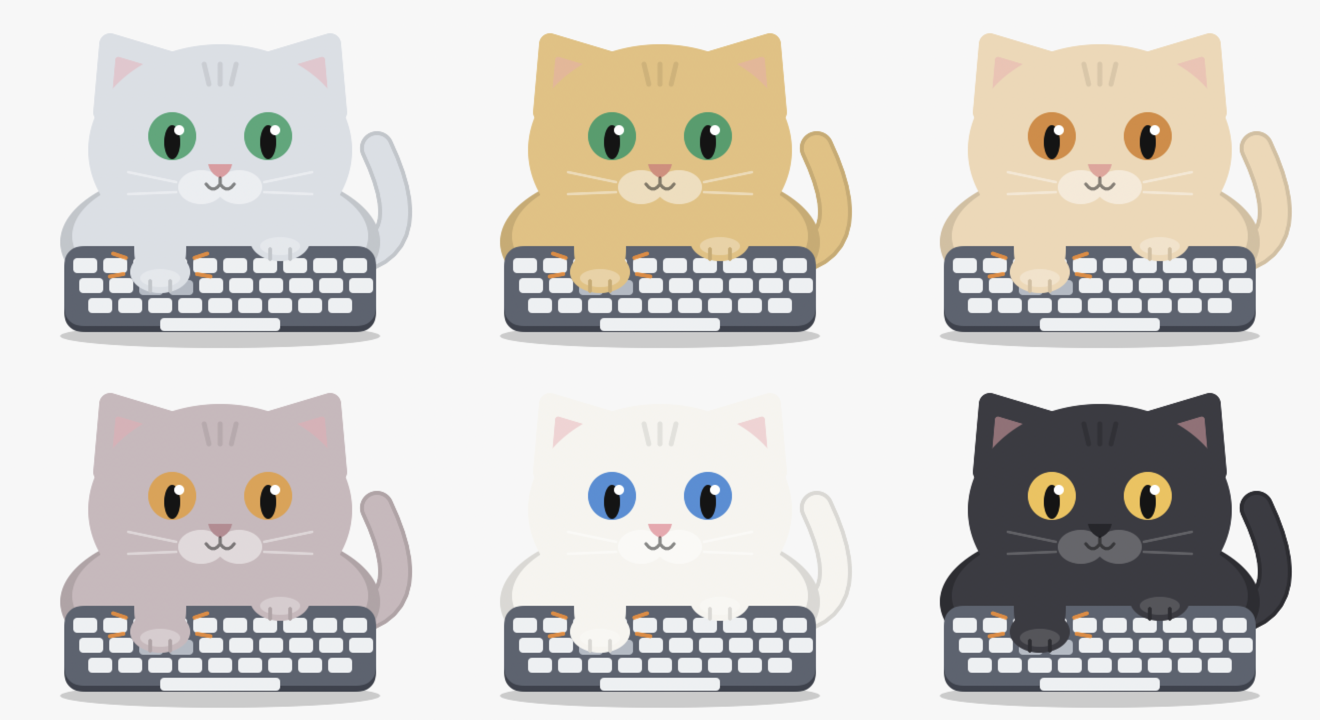
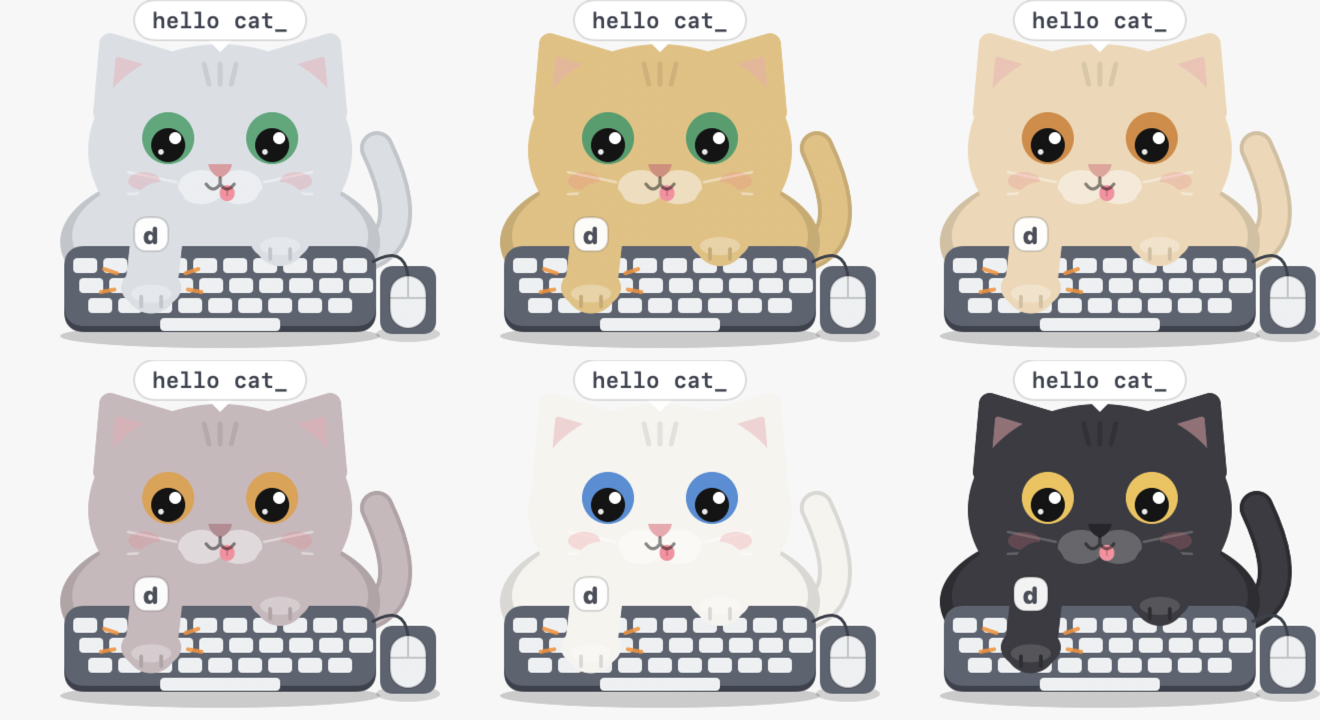
蠢萌化 + 旁边加小鼠标
- 大圆豆豆眼、双高光、小舌尖、常驻淡腮红；发呆时慢慢歪头，偶尔对眼
- 打字太快变 > < 眼并冒汗珠；专心打字时舌头歪着伸出来；睡觉吹鼻涕泡
- 键盘右边加小鼠标：用鼠标时右爪搭上去，跟随光标在屏幕上的位置移动，点击时有冲击线

diff --git a/Sources/TypingCat/CatView.swift b/Sources/TypingCat/CatView.swift
@@ -39,6 +39,7 @@ private struct CatPainter {
         bodyShape(&ctx, breathe: breathe)
         head(&ctx, dy: headDY)
         keyboard(&ctx)
+        miniMouse(&ctx)
         paw(&ctx, left: true, key: model.leftKey)
         paw(&ctx, left: false, key: model.rightKey)
         effects(&ctx)
@@ -143,9 +144,9 @@ private struct CatPainter {
     func head(_ ctx: inout GraphicsContext, dy: Double) {
         var c = ctx
         c.translateBy(x: 0, y: dy)
-        if model.isPetted {
-            // 被 rua 时脑袋左右蹭
-            let a = sin(t * 5) * 0.05
+        if model.isPetted || mood == .idle {
+            // 被 rua 时脑袋左右蹭；发呆时慢慢歪头
+            let a = model.isPetted ? sin(t * 5) * 0.05 : sin(t * 0.8) * 0.06
             c.translateBy(x: 110, y: 120)
             c.rotate(by: .radians(a))
             c.translateBy(x: -110, y: -120)
@@ -182,6 +183,18 @@ private struct CatPainter {
         nose.addQuadCurve(to: CGPoint(x: 104, y: 82), control: CGPoint(x: 105, y: 87))
         c.fill(nose, with: .color(th.nose))
 
+        // 小舌头：平时露一点舌尖，专心打字时歪着伸出来
+        if !sleeping {
+            let typing = mood == .typing || mood == .excited
+            let tw = typing ? 7.5 : 6.0, tl = typing ? 8.0 : 4.5
+            let tx = typing ? 113.5 : 110.0
+            let tongue = CGRect(x: tx - tw / 2, y: 92.5, width: tw, height: tl)
+            c.fill(Path(roundedRect: tongue, cornerRadius: tw / 2), with: .color(Color(red: 1, green: 0.55, blue: 0.62)))
+            var mid = Path()
+            mid.move(to: CGPoint(x: tx, y: 94)); mid.addLine(to: CGPoint(x: tx, y: 92.5 + tl - 2.5))
+            c.stroke(mid, with: .color(Color(red: 0.85, green: 0.35, blue: 0.45).opacity(0.6)), lineWidth: 1)
+        }
+
         // 嘴巴 "ω"
         let ink = Color.black.opacity(0.45)
         var m = Path()
@@ -200,12 +213,32 @@ private struct CatPainter {
         }
         c.stroke(w, with: .color(th.light.opacity(0.9)), style: StrokeStyle(lineWidth: 1.3, lineCap: .round))
 
-        // 兴奋或开心时脸红
-        if mood == .excited || happy {
-            for x in [66.0, 138.0] {
-                c.fill(Path(ellipseIn: CGRect(x: x, y: 86, width: 16, height: 9)),
-                       with: .color(Color(red: 1, green: 0.45, blue: 0.5).opacity(0.45)))
-            }
+        // 腮红：平时淡淡的，兴奋或开心时更红
+        let blush = mood == .excited || happy ? 0.5 : 0.22
+        for x in [64.0, 140.0] {
+            c.fill(Path(ellipseIn: CGRect(x: x, y: 86, width: 16, height: 9)),
+                   with: .color(Color(red: 1, green: 0.45, blue: 0.5).opacity(blush)))
+        }
+
+        // 打字太快：头上冒汗珠
+        if mood == .excited {
+            let drop = CGPoint(x: 160, y: 40 + (t * 1.5).truncatingRemainder(dividingBy: 1) * 6)
+            var d = Path()
+            d.move(to: CGPoint(x: drop.x, y: drop.y - 8))
+            d.addQuadCurve(to: CGPoint(x: drop.x, y: drop.y + 4), control: CGPoint(x: drop.x + 8, y: drop.y + 2))
+            d.addQuadCurve(to: CGPoint(x: drop.x, y: drop.y - 8), control: CGPoint(x: drop.x - 8, y: drop.y + 2))
+            c.fill(d, with: .color(Color(red: 0.55, green: 0.78, blue: 0.98)))
+            c.fill(Path(ellipseIn: CGRect(x: drop.x - 2.5, y: drop.y - 2, width: 2.2, height: 3)), with: .color(.white.opacity(0.8)))
+        }
+
+        // 睡觉：鼻涕泡一大一小
+        if sleeping {
+            let r = 3 + 3.5 * abs(sin(t * 0.9))
+            let b = CGRect(x: 117, y: 84 - r, width: r * 2, height: r * 2)
+            c.fill(Path(ellipseIn: b), with: .color(Color(red: 0.75, green: 0.88, blue: 1).opacity(0.55)))
+            c.stroke(Path(ellipseIn: b), with: .color(.white.opacity(0.9)), lineWidth: 1)
+            c.fill(Path(ellipseIn: CGRect(x: b.minX + r * 0.5, y: b.minY + r * 0.4, width: r * 0.5, height: r * 0.5)),
+                   with: .color(.white.opacity(0.9)))
         }
     }
 
@@ -223,58 +256,75 @@ private struct CatPainter {
         ctx.stroke(inner, with: .color(th.innerEar), style: StrokeStyle(lineWidth: 3, lineJoin: .round))
     }
 
+    /// 发呆时每 9 秒对一次眼（持续约 1.6 秒）
+    var derp: Bool { mood == .idle && !happy && t.truncatingRemainder(dividingBy: 9) > 7.4 }
+
     func eyes(_ ctx: inout GraphicsContext) {
-        let centers = [CGPoint(x: 86, y: 68), CGPoint(x: 134, y: 68)]
-        let ink = Color.black.opacity(0.7)
+        // 眼距略宽，豆豆眼更显呆
+        let centers = [CGPoint(x: 84, y: 69), CGPoint(x: 136, y: 69)]
+        let ink = Color.black.opacity(0.75)
+        let line = StrokeStyle(lineWidth: 2.8, lineCap: .round, lineJoin: .round)
 
         // 每 ~4.3 秒眨一次眼
         let blinking = mood != .sleeping && t.truncatingRemainder(dividingBy: 4.3) < 0.14
 
-        for c in centers {
+        for (i, c) in centers.enumerated() {
+            let isLeft = i == 0
             if happy {
                 // 开心的 ^ ^ 眼
                 var p = Path()
                 p.move(to: CGPoint(x: c.x - 10, y: c.y + 4))
                 p.addQuadCurve(to: CGPoint(x: c.x + 10, y: c.y + 4), control: CGPoint(x: c.x, y: c.y - 10))
-                ctx.stroke(p, with: .color(ink), style: StrokeStyle(lineWidth: 2.6, lineCap: .round))
+                ctx.stroke(p, with: .color(ink), style: line)
             } else if sleeping {
                 var p = Path()
                 p.move(to: CGPoint(x: c.x - 10, y: c.y))
                 p.addQuadCurve(to: CGPoint(x: c.x + 10, y: c.y), control: CGPoint(x: c.x, y: c.y + 8))
-                ctx.stroke(p, with: .color(ink), style: StrokeStyle(lineWidth: 2.4, lineCap: .round))
+                ctx.stroke(p, with: .color(ink), style: line)
+            } else if mood == .excited {
+                // 手忙脚乱的 > <
+                let d: Double = isLeft ? 1 : -1
+                var p = Path()
+                p.move(to: CGPoint(x: c.x - 7 * d, y: c.y - 7))
+                p.addLine(to: CGPoint(x: c.x + 6 * d, y: c.y))
+                p.addLine(to: CGPoint(x: c.x - 7 * d, y: c.y + 7))
+                ctx.stroke(p, with: .color(ink), style: StrokeStyle(lineWidth: 3.2, lineCap: .round, lineJoin: .round))
             } else if blinking {
                 var p = Path()
                 p.move(to: CGPoint(x: c.x - 10, y: c.y + 1))
                 p.addLine(to: CGPoint(x: c.x + 10, y: c.y + 1))
-                ctx.stroke(p, with: .color(ink), style: StrokeStyle(lineWidth: 2.4, lineCap: .round))
+                ctx.stroke(p, with: .color(ink), style: line)
             } else {
-                let r = 12.0
+                // 大圆豆豆眼：瞳孔又大又圆，两颗高光
+                let r = 13.0
                 ctx.fill(Path(ellipseIn: CGRect(x: c.x - r, y: c.y - r, width: r * 2, height: r * 2)),
                          with: .color(th.eye))
-                // 打字时盯着键盘；否则眼睛跟着鼠标转。兴奋时瞳孔放大变圆
-                let look = lookOffset(from: c)
-                let pw = mood == .excited ? 15.0 : 8.0
-                let ph = mood == .excited ? 15.0 : 17.0
-                ctx.fill(Path(ellipseIn: CGRect(x: c.x - pw / 2 + look.dx, y: c.y - ph / 2 + look.dy,
-                                                width: pw, height: ph)),
+                var look = lookOffset(from: c)
+                if derp {
+                    // 对眼：两只瞳孔都往鼻子靠
+                    look = CGVector(dx: isLeft ? 4.5 : -4.5, dy: 1.5)
+                }
+                let pr = 8.5
+                let pc = CGPoint(x: c.x + look.dx, y: c.y + look.dy)
+                ctx.fill(Path(ellipseIn: CGRect(x: pc.x - pr, y: pc.y - pr, width: pr * 2, height: pr * 2)),
                          with: .color(Color(white: 0.08)))
-                ctx.fill(Path(ellipseIn: CGRect(x: c.x + 1 + look.dx * 0.5, y: c.y - 7 + look.dy * 0.5,
-                                                width: 5, height: 5)),
+                ctx.fill(Path(ellipseIn: CGRect(x: pc.x + 0.5, y: pc.y - 6.5, width: 6, height: 6)),
                          with: .color(.white))
+                ctx.fill(Path(ellipseIn: CGRect(x: pc.x - 5, y: pc.y + 2, width: 2.8, height: 2.8)),
+                         with: .color(.white.opacity(0.9)))
             }
         }
     }
 
-    /// 瞳孔偏移：最多 4.5（设计单位），朝向鼠标
+    /// 瞳孔偏移：最多 4.5（设计单位），朝向鼠标；打字时盯着键盘
     func lookOffset(from eye: CGPoint) -> CGVector {
-        if mood == .typing || mood == .excited { return CGVector(dx: 0, dy: 3) }
+        if mood == .typing || mood == .excited { return CGVector(dx: 0, dy: 3.5) }
         guard let m = model.mouse else { return .zero }
         let dx = m.x - eye.x, dy = m.y - eye.y
         let d = hypot(dx, dy)
         guard d > 0.5 else { return .zero }
-        let k = min(d / 50, 1) / d
-        // 瞳孔竖长，横向可以多转一点，纵向受眼眶限制
-        return CGVector(dx: dx * k * 5.5, dy: dy * k * 3.5)
+        let k = min(d / 50, 1) * 4.5 / d
+        return CGVector(dx: dx * k, dy: dy * k)
     }
 
     func keyboard(_ ctx: inout GraphicsContext) {
@@ -306,7 +356,55 @@ private struct CatPainter {
             let x = key.row == 3 ? r.midX + (left ? -14 : 14) : r.midX
             return CGPoint(x: x, y: r.midY + 1)
         }
+        // 右爪搭在小鼠标上；点击时往下按一点
+        if !left && usingMouse {
+            let m = miniMouseCenter
+            let press = model.mouseLeftDown || model.mouseRightDown ? 2.0 : 0
+            return CGPoint(x: m.x - 8, y: m.y - 15 + press)
+        }
         return CGPoint(x: sx, y: sleeping ? 136 : 120)
+    }
+
+    // MARK: - 小鼠标
+
+    var usingMouse: Bool { t < model.mouseActiveUntil }
+    static let padRect = CGRect(x: 190, y: 133, width: 28, height: 34)
+    var miniMouseCenter: CGPoint {
+        CGPoint(x: Self.padRect.midX + model.miniMouse.dx, y: Self.padRect.midY + 1 + model.miniMouse.dy)
+    }
+
+    func miniMouse(_ ctx: inout GraphicsContext) {
+        let pad = Self.padRect
+        ctx.fill(Path(ellipseIn: CGRect(x: pad.minX - 2, y: pad.maxY - 4, width: pad.width + 4, height: 8)),
+                 with: .color(.black.opacity(0.15)))
+        ctx.fill(Path(roundedRect: pad, cornerRadius: 6), with: .color(Color(red: 0.36, green: 0.39, blue: 0.44)))
+
+        let c = miniMouseCenter
+        let body = CGRect(x: c.x - 9, y: c.y - 13, width: 18, height: 26)
+        // 线连到键盘
+        var cord = Path()
+        cord.move(to: CGPoint(x: c.x, y: body.minY))
+        cord.addQuadCurve(to: CGPoint(x: 186, y: 131), control: CGPoint(x: c.x - 2, y: 122))
+        ctx.stroke(cord, with: .color(Color(red: 0.24, green: 0.26, blue: 0.30)), lineWidth: 1.5)
+
+        let shell = Color(red: 0.93, green: 0.94, blue: 0.95)
+        let pressed = Color(red: 0.70, green: 0.73, blue: 0.77)
+        ctx.fill(Path(roundedRect: body, cornerRadius: 9), with: .color(shell))
+        // 左右键
+        var cg = ctx
+        cg.clip(to: Path(roundedRect: body, cornerRadius: 9))
+        let half = body.width / 2, top = body.height * 0.42
+        if model.mouseLeftDown {
+            cg.fill(Path(CGRect(x: body.minX, y: body.minY, width: half, height: top)), with: .color(pressed))
+        }
+        if model.mouseRightDown {
+            cg.fill(Path(CGRect(x: body.midX, y: body.minY, width: half, height: top)), with: .color(pressed))
+        }
+        var seams = Path()
+        seams.move(to: CGPoint(x: body.midX, y: body.minY)); seams.addLine(to: CGPoint(x: body.midX, y: body.minY + top))
+        seams.move(to: CGPoint(x: body.minX, y: body.minY + top)); seams.addLine(to: CGPoint(x: body.maxX, y: body.minY + top))
+        cg.stroke(seams, with: .color(.black.opacity(0.18)), lineWidth: 1)
+        ctx.stroke(Path(roundedRect: body, cornerRadius: 9), with: .color(.black.opacity(0.15)), lineWidth: 1)
     }
 
     func paw(_ ctx: inout GraphicsContext, left: Bool, key: KeyPos?) {
@@ -343,6 +441,19 @@ private struct CatPainter {
                     .foregroundColor(Color(red: 0.45, green: 0.55, blue: 0.75).opacity(1 - phase))
                 ctx.draw(text, at: CGPoint(x: x, y: y))
             }
+        }
+
+        // 点鼠标时的冲击线
+        if usingMouse && (model.mouseLeftDown || model.mouseRightDown) {
+            let m = miniMouseCenter
+            var p = Path()
+            // 画在鼠标下方，避免超出窗口右边缘
+            for (a, b) in [((m.x - 7, m.y + 15), (m.x - 10, m.y + 20)),
+                           ((m.x, m.y + 16), (m.x, m.y + 21)),
+                           ((m.x + 7, m.y + 15), (m.x + 10, m.y + 20))] {
+                p.move(to: CGPoint(x: a.0, y: a.1)); p.addLine(to: CGPoint(x: b.0, y: b.1))
+            }
+            ctx.stroke(p, with: .color(Color.orange.opacity(0.85)), style: StrokeStyle(lineWidth: 2, lineCap: .round))
         }
 
         // 被 rua 时冒爱心

diff --git a/Sources/TypingCat/CatModel.swift b/Sources/TypingCat/CatModel.swift
@@ -40,6 +40,15 @@ final class CatModel: ObservableObject {
     var onPetStart: (() -> Void)?
     var onPetEnd: (() -> Void)?
     private var rubEnergy = 0.0
+
+    // 旁边的小鼠标：跟着真实鼠标动
+    /// 小鼠标相对鼠标垫中心的偏移（设计单位）
+    var miniMouse = CGVector.zero
+    /// 在这个时间之前，猫的右爪搭在小鼠标上
+    var mouseActiveUntil: TimeInterval = 0
+    var mouseLeftDown = false
+    var mouseRightDown = false
+    private var lastScreenMouse: CGPoint?
     private var lastMouse: CGPoint?
 
     private var recent: [TimeInterval] = []
@@ -158,6 +167,25 @@ final class CatModel: ObservableObject {
             lastActivity = CatModel.now
             if mood == .sleeping { updateMood() }
         }
+    }
+
+    /// 约 30Hz 调用：真实鼠标的屏幕位置、所在屏幕、按键状态
+    func trackPointer(screen p: CGPoint, in frame: CGRect, buttons: Int) {
+        let now = CatModel.now
+        let moved = lastScreenMouse.map { hypot(p.x - $0.x, p.y - $0.y) > 1 } ?? false
+        lastScreenMouse = p
+        mouseLeftDown = buttons & 1 != 0
+        mouseRightDown = buttons & 2 != 0
+        if moved || buttons != 0 {
+            mouseActiveUntil = now + 1.0
+            lastActivity = now
+            if mood == .sleeping { updateMood() }
+        }
+        // 光标在屏幕上的位置 → 小鼠标在垫子上的位置（y 向下）
+        let tx = ((p.x - frame.minX) / max(frame.width, 1) - 0.5) * 10
+        let ty = (0.5 - (p.y - frame.minY) / max(frame.height, 1)) * 10
+        miniMouse.dx += (tx - miniMouse.dx) * 0.35
+        miniMouse.dy += (ty - miniMouse.dy) * 0.35
     }
 
     /// 被点了一下

diff --git a/Sources/TypingCat/main.swift b/Sources/TypingCat/main.swift
@@ -31,6 +31,10 @@ enum Snapshot {
                 m.letters = [FloatingLetter(text: "a", key: KeyPos(row: 1, col: 0), born: 0.55),
                              FloatingLetter(text: "i", key: I, born: 0.85)]
                 m.typedLine = "meow meow"; m.lastTypedAt = 0.9 }),
+            ("mouse", { m in
+                m.force(mood: .idle, left: nil, right: nil)
+                m.mouseActiveUntil = 2; m.mouseLeftDown = true
+                m.miniMouse = CGVector(dx: 3, dy: -2); m.mouse = CGPoint(x: 230, y: 160) }),
             ("petted", { m in m.force(mood: .idle, left: nil, right: nil); m.isPetted = true }),
             ("sleeping", { m in m.force(mood: .sleeping, left: nil, right: nil) }),
             ("permission", { m in m.force(mood: .idle, left: nil, right: nil); m.needsPermission = true }),

diff --git a/Sources/TypingCat/AppDelegate.swift b/Sources/TypingCat/AppDelegate.swift
@@ -111,6 +111,8 @@ final class AppDelegate: NSObject, NSApplicationDelegate, NSMenuDelegate, NSWind
     func trackMouse() {
         guard let panel, panel.isVisible else { model.trackMouse(nil); return }
         let m = NSEvent.mouseLocation
+        let screen = NSScreen.screens.first { NSMouseInRect(m, $0.frame, false) } ?? NSScreen.main
+        model.trackPointer(screen: m, in: screen?.frame ?? .zero, buttons: NSEvent.pressedMouseButtons)
         let f = panel.frame
         let p = CGPoint(x: (m.x - f.minX) / f.width * CatView.designSize.width,
                         y: (f.maxY - m.y) / f.height * CatView.designSize.height)

diff --git a/README.md b/README.md
@@ -1,16 +1,22 @@
 # TypingCat 🐱⌨
 
-一只趴在键盘上的扁平风英短猫。你在任何地方打字，它都会跟着拍键盘。
+一只蠢萌的扁平风英短猫，趴在键盘上。你打字它就跟着拍键盘，你用鼠标它就跟着摸鼠标。
 
 <p align="center"><img src="docs/typing.png" width="320" alt="正在打字的蓝猫"></p>
 
 ## 功能
 
-| 打字中 | 打得飞快 | rua 它 | 睡着了 |
-|:---:|:---:|:---:|:---:|
-| <img src="docs/typing.png" width="200"> | <img src="docs/excited.png" width="200"> | <img src="docs/petted.png" width="200"> | <img src="docs/sleeping.png" width="200"> |
-| 你按哪个键，猫就拍哪个键，字母从键上弹起，头顶显示打出的字 | 每秒 6 键以上：瞳孔放大、脸红、尾巴甩得更快 | 鼠标在猫头上来回蹭：眯眼、冒爱心、喵一声并打呼噜 | 30 秒没动静就趴下睡觉，冒出 Zzz |
+| 打字中 | 打得飞快 | 用鼠标 |
+|:---:|:---:|:---:|
+| <img src="docs/typing.png" width="240"> | <img src="docs/excited.png" width="240"> | <img src="docs/mouse.png" width="240"> |
+| 你按哪个键，猫就拍哪个键，字母从键上弹起，头顶显示打出的字；专心时会吐舌头 | 每秒 6 键以上：手忙脚乱，`> <` 眼，冒汗珠 | 右爪搭在小鼠标上，跟着你的光标挪动，你点击它也点 |
 
+| rua 它 | 睡着了 |
+|:---:|:---:|
+| <img src="docs/petted.png" width="240"> | <img src="docs/sleeping.png" width="240"> |
+| 鼠标在猫头上来回蹭：眯眼、冒爱心、喵一声并打呼噜 | 30 秒没动静就趴下睡觉，吹鼻涕泡、冒 Zzz |
+
+- **蠢萌**：大圆豆豆眼、小舌尖、淡淡的腮红；发呆时会慢慢歪头，偶尔还会对眼
 - **眼睛跟着鼠标转**：不打字的时候，猫会一直盯着你的鼠标
 - **会叫**：点猫一下会喵；rua 它会打呼噜。声音都是用代码实时合成的，可以在菜单里关闭
 - **毛色可选**：蓝猫、银渐层、金渐层、奶油、丁香、白猫、黑猫，也可以用取色器自定义
